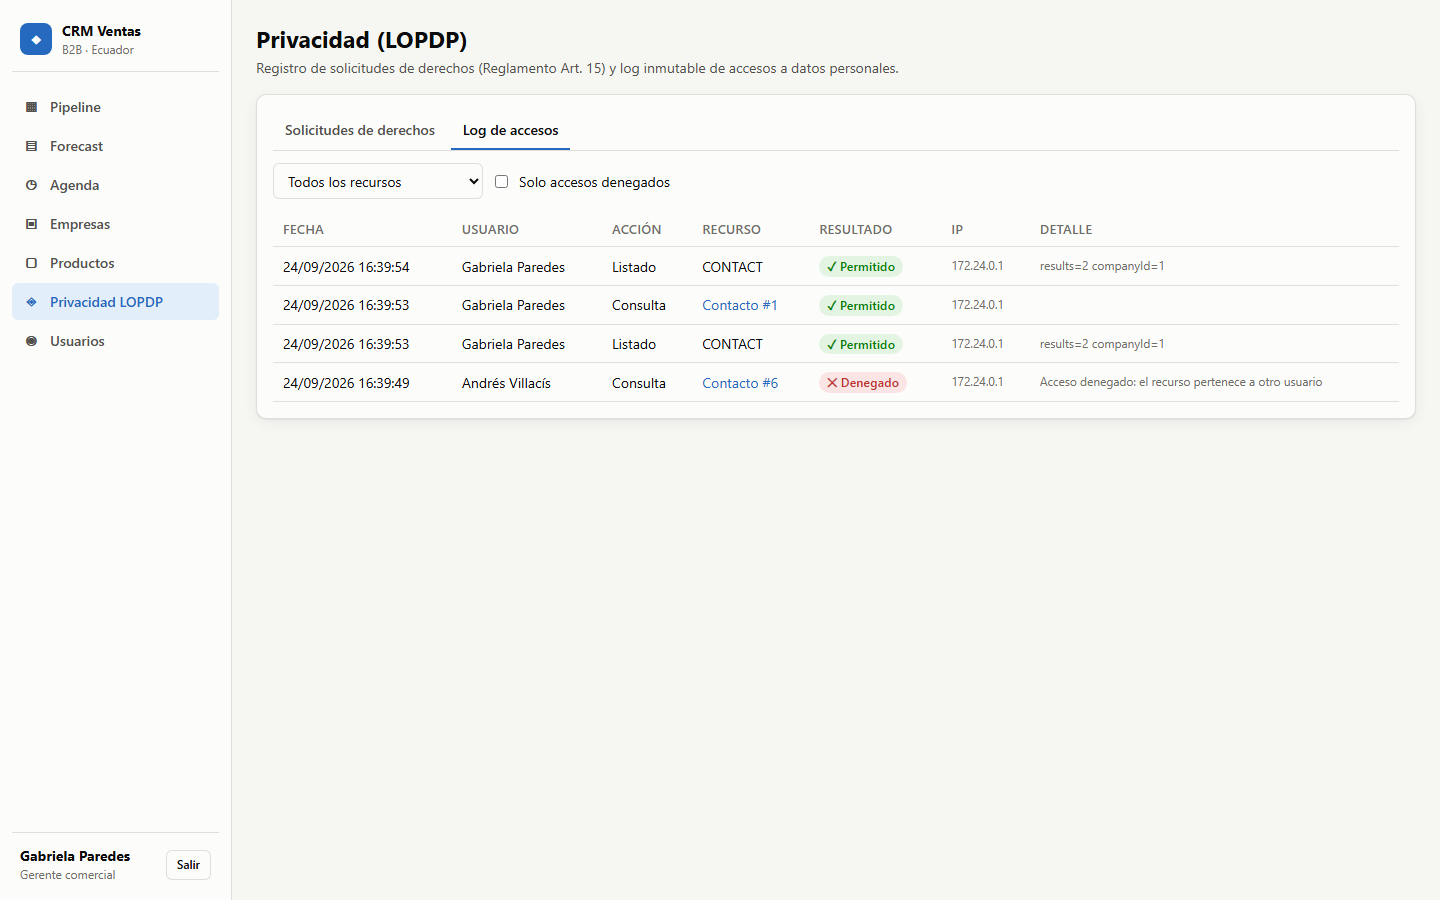
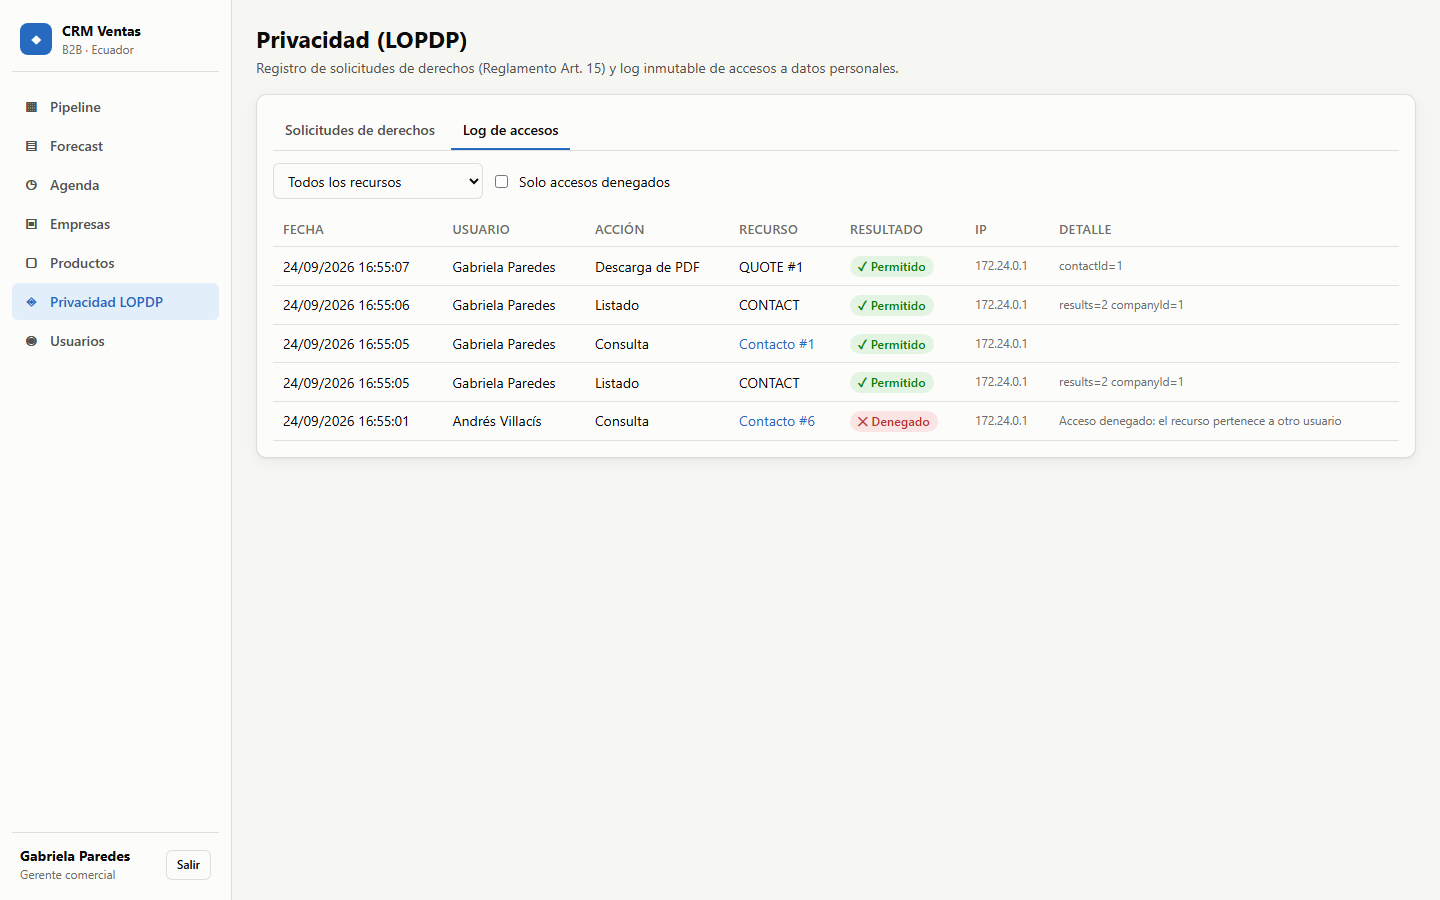
docs: add PDF, validation, mobile, dark mode and API screenshots to README

diff --git a/frontend/e2e/screenshots.e2e.ts b/frontend/e2e/screenshots.e2e.ts
@@ -2,14 +2,17 @@ import { test } from '@playwright/test';
 import { MANAGER, REP1, login } from './helpers';
 
 /**
- * Genera las capturas del README en docs/img. Solo se ejecuta con SCREENSHOTS=1:
- *   SCREENSHOTS=1 npx playwright test screenshots
+ * Genera las capturas del README en docs/img. Solo se ejecuta con SCREENSHOTS=1, sobre datos demo recién cargados:
+ *   SCREENSHOTS=1 E2E_API_URL=http://localhost:8080 npx playwright test screenshots
+ * El PDF de la cotización se guarda en test-results/ (no se versiona) para convertirlo a imagen.
  */
 test.skip(!process.env['SCREENSHOTS'], 'Solo para regenerar capturas del README');
 
 const OUT = '../docs/img';
+const API = process.env['E2E_API_URL'] ?? 'http://localhost:8080';
 
 test('capturas del README', async ({ page }) => {
+  test.setTimeout(120_000);
   await page.emulateMedia({ colorScheme: 'light' });
   // Un vendedor intenta abrir un contacto de otra vendedora (ID 6 en los datos demo): queda como acceso denegado.
   await login(page, REP1);
@@ -26,7 +29,25 @@ test('capturas del README', async ({ page }) => {
   await page.screenshot({ path: `${OUT}/forecast.png`, fullPage: true });
 
   await page.getByRole('link', { name: 'Empresas' }).click();
+  await page.getByRole('button', { name: '+ Empresa' }).click();
+  await page.getByLabel('RUC').fill('2299981235001');
+  await page.getByLabel('Provincia (matriz)').selectOption('22');
+  await page.getByLabel('Razón social').fill('Nueva Empresa Amazónica S.A.');
+  await page.getByText('El SRI no aplica módulo 11').waitFor();
+  await page.waitForTimeout(300);
+  await page.screenshot({ path: `${OUT}/alta-empresa-ruc.png` });
+  await page.getByRole('button', { name: 'Cancelar' }).click();
+
   await page.getByRole('link', { name: 'Turismo Insular Galápagos Cía. Ltda.' }).click();
+  await page.getByRole('button', { name: '+ Contacto' }).click();
+  await page.getByLabel('Nombres').fill('Carla');
+  await page.getByLabel('Cédula (opcional)').fill('2059999992');
+  await page.getByLabel('Cédula (opcional)').blur();
+  await page.getByText('El dígito verificador de la cédula no es correcto.').waitFor();
+  await page.waitForTimeout(300);
+  await page.screenshot({ path: `${OUT}/alta-contacto-consentimiento.png` });
+  await page.getByRole('button', { name: 'Cancelar' }).click();
+
   await page.getByRole('link', { name: 'María José Andrade' }).click();
   await page.getByText('Consentimientos por finalidad').waitFor();
   await page.waitForTimeout(400);
@@ -36,6 +57,9 @@ test('capturas del README', async ({ page }) => {
   await page.getByRole('heading', { name: 'COT-2026-000001' }).waitFor();
   await page.waitForTimeout(400);
   await page.screenshot({ path: `${OUT}/cotizacion.png`, fullPage: true });
+  const download = page.waitForEvent('download');
+  await page.getByRole('button', { name: '⬇ PDF' }).click();
+  await (await download).saveAs('test-results/cotizacion.pdf');
 
   await page.getByRole('link', { name: 'Privacidad LOPDP' }).click();
   await page.getByRole('tab', { name: 'Log de accesos' }).click();
@@ -46,4 +70,17 @@ test('capturas del README', async ({ page }) => {
   await page.getByRole('link', { name: 'Pipeline' }).first().click();
   await page.waitForTimeout(600);
   await page.screenshot({ path: `${OUT}/pipeline-oscuro.png` });
+
+  await page.emulateMedia({ colorScheme: 'light' });
+  await page.setViewportSize({ width: 390, height: 844 });
+  await page.goto('/activities');
+  await page.getByRole('heading', { name: 'Agenda' }).waitFor();
+  await page.waitForTimeout(400);
+  await page.screenshot({ path: `${OUT}/movil-agenda.png` });
+
+  await page.setViewportSize({ width: 1440, height: 900 });
+  await page.goto(`${API}/swagger-ui.html`);
+  await page.getByText('CRM Ventas API').first().waitFor();
+  await page.waitForTimeout(800);
+  await page.screenshot({ path: `${OUT}/swagger.png` });
 });

diff --git a/README.md b/README.md
@@ -20,13 +20,19 @@ CRM B2B para empresas ecuatorianas: pipeline kanban, cotizaciones en PDF con IVA
 
 Contraseña de ambos: `Demo-CRM-2026`. La demo gratuita "duerme": la primera carga puede tardar ~1 minuto.
 
-![Pipeline kanban](docs/img/pipeline.png)
+![Pipeline kanban con drag and drop](docs/img/pipeline.png)
 
-| Forecast | Consentimientos y derechos del titular |
+| Forecast de ventas | Cotización con IVA por tarifa |
 |---|---|
-| ![Forecast](docs/img/forecast.png) | ![Contacto LOPDP](docs/img/contacto-lopdp.png) |
-| **Cotización con IVA por tarifa** | **Log de accesos (incluye intentos denegados)** |
-| ![Cotización](docs/img/cotizacion.png) | ![Log de accesos](docs/img/log-accesos.png) |
+| ![Forecast](docs/img/forecast.png) | ![Cotización](docs/img/cotizacion.png) |
+| **RUC validado con las reglas del SRI** (sociedad con secuencial de 7 dígitos) | **Alta de contacto: cédula validada y consentimiento obligatorio** |
+| ![Alta de empresa](docs/img/alta-empresa-ruc.png) | ![Alta de contacto](docs/img/alta-contacto-consentimiento.png) |
+| **Consentimientos por finalidad y derechos del titular** | **Log de accesos, incluidos los intentos denegados** |
+| ![Contacto LOPDP](docs/img/contacto-lopdp.png) | ![Log de accesos](docs/img/log-accesos.png) |
+| **PDF de la cotización (OpenPDF)** | **API documentada con OpenAPI** |
+| ![PDF de la cotización](docs/img/cotizacion-pdf.png) | ![Swagger UI](docs/img/swagger.png) |
+| **Modo oscuro** | **Diseño adaptable (móvil)** |
+| ![Modo oscuro](docs/img/pipeline-oscuro.png) | ![Vista móvil](docs/img/movil-agenda.png) |
 
 ## Problema que resuelve
 
